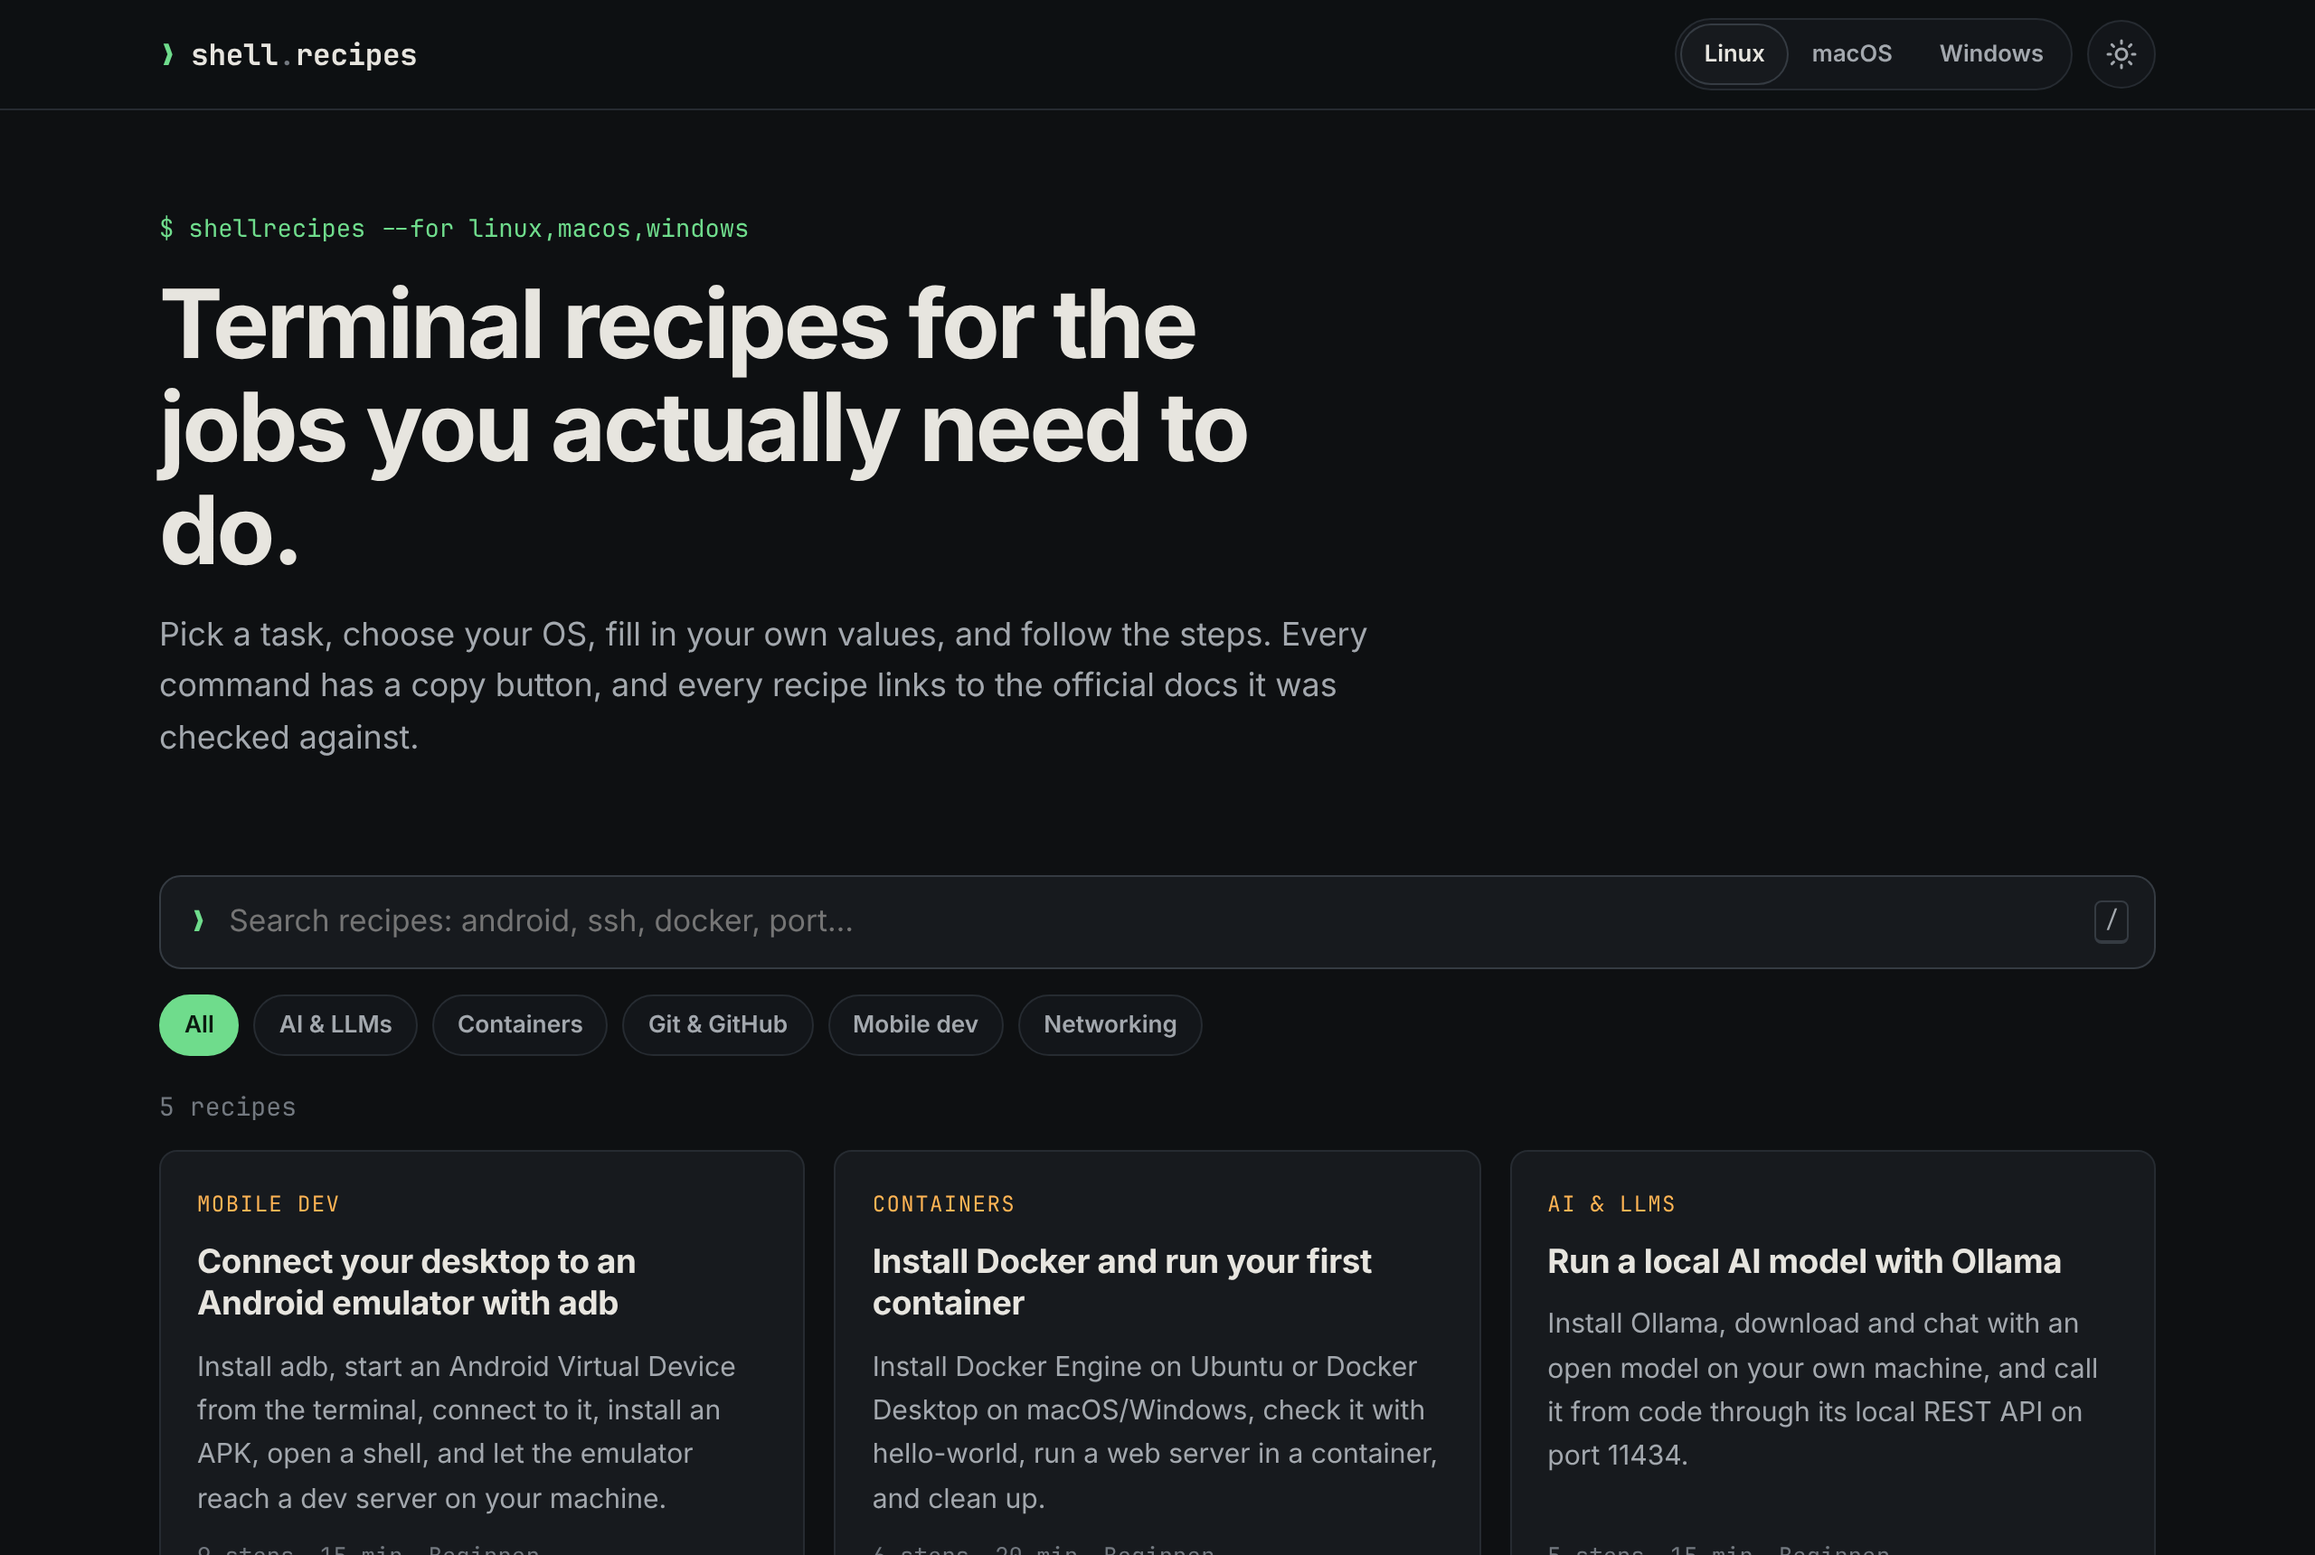
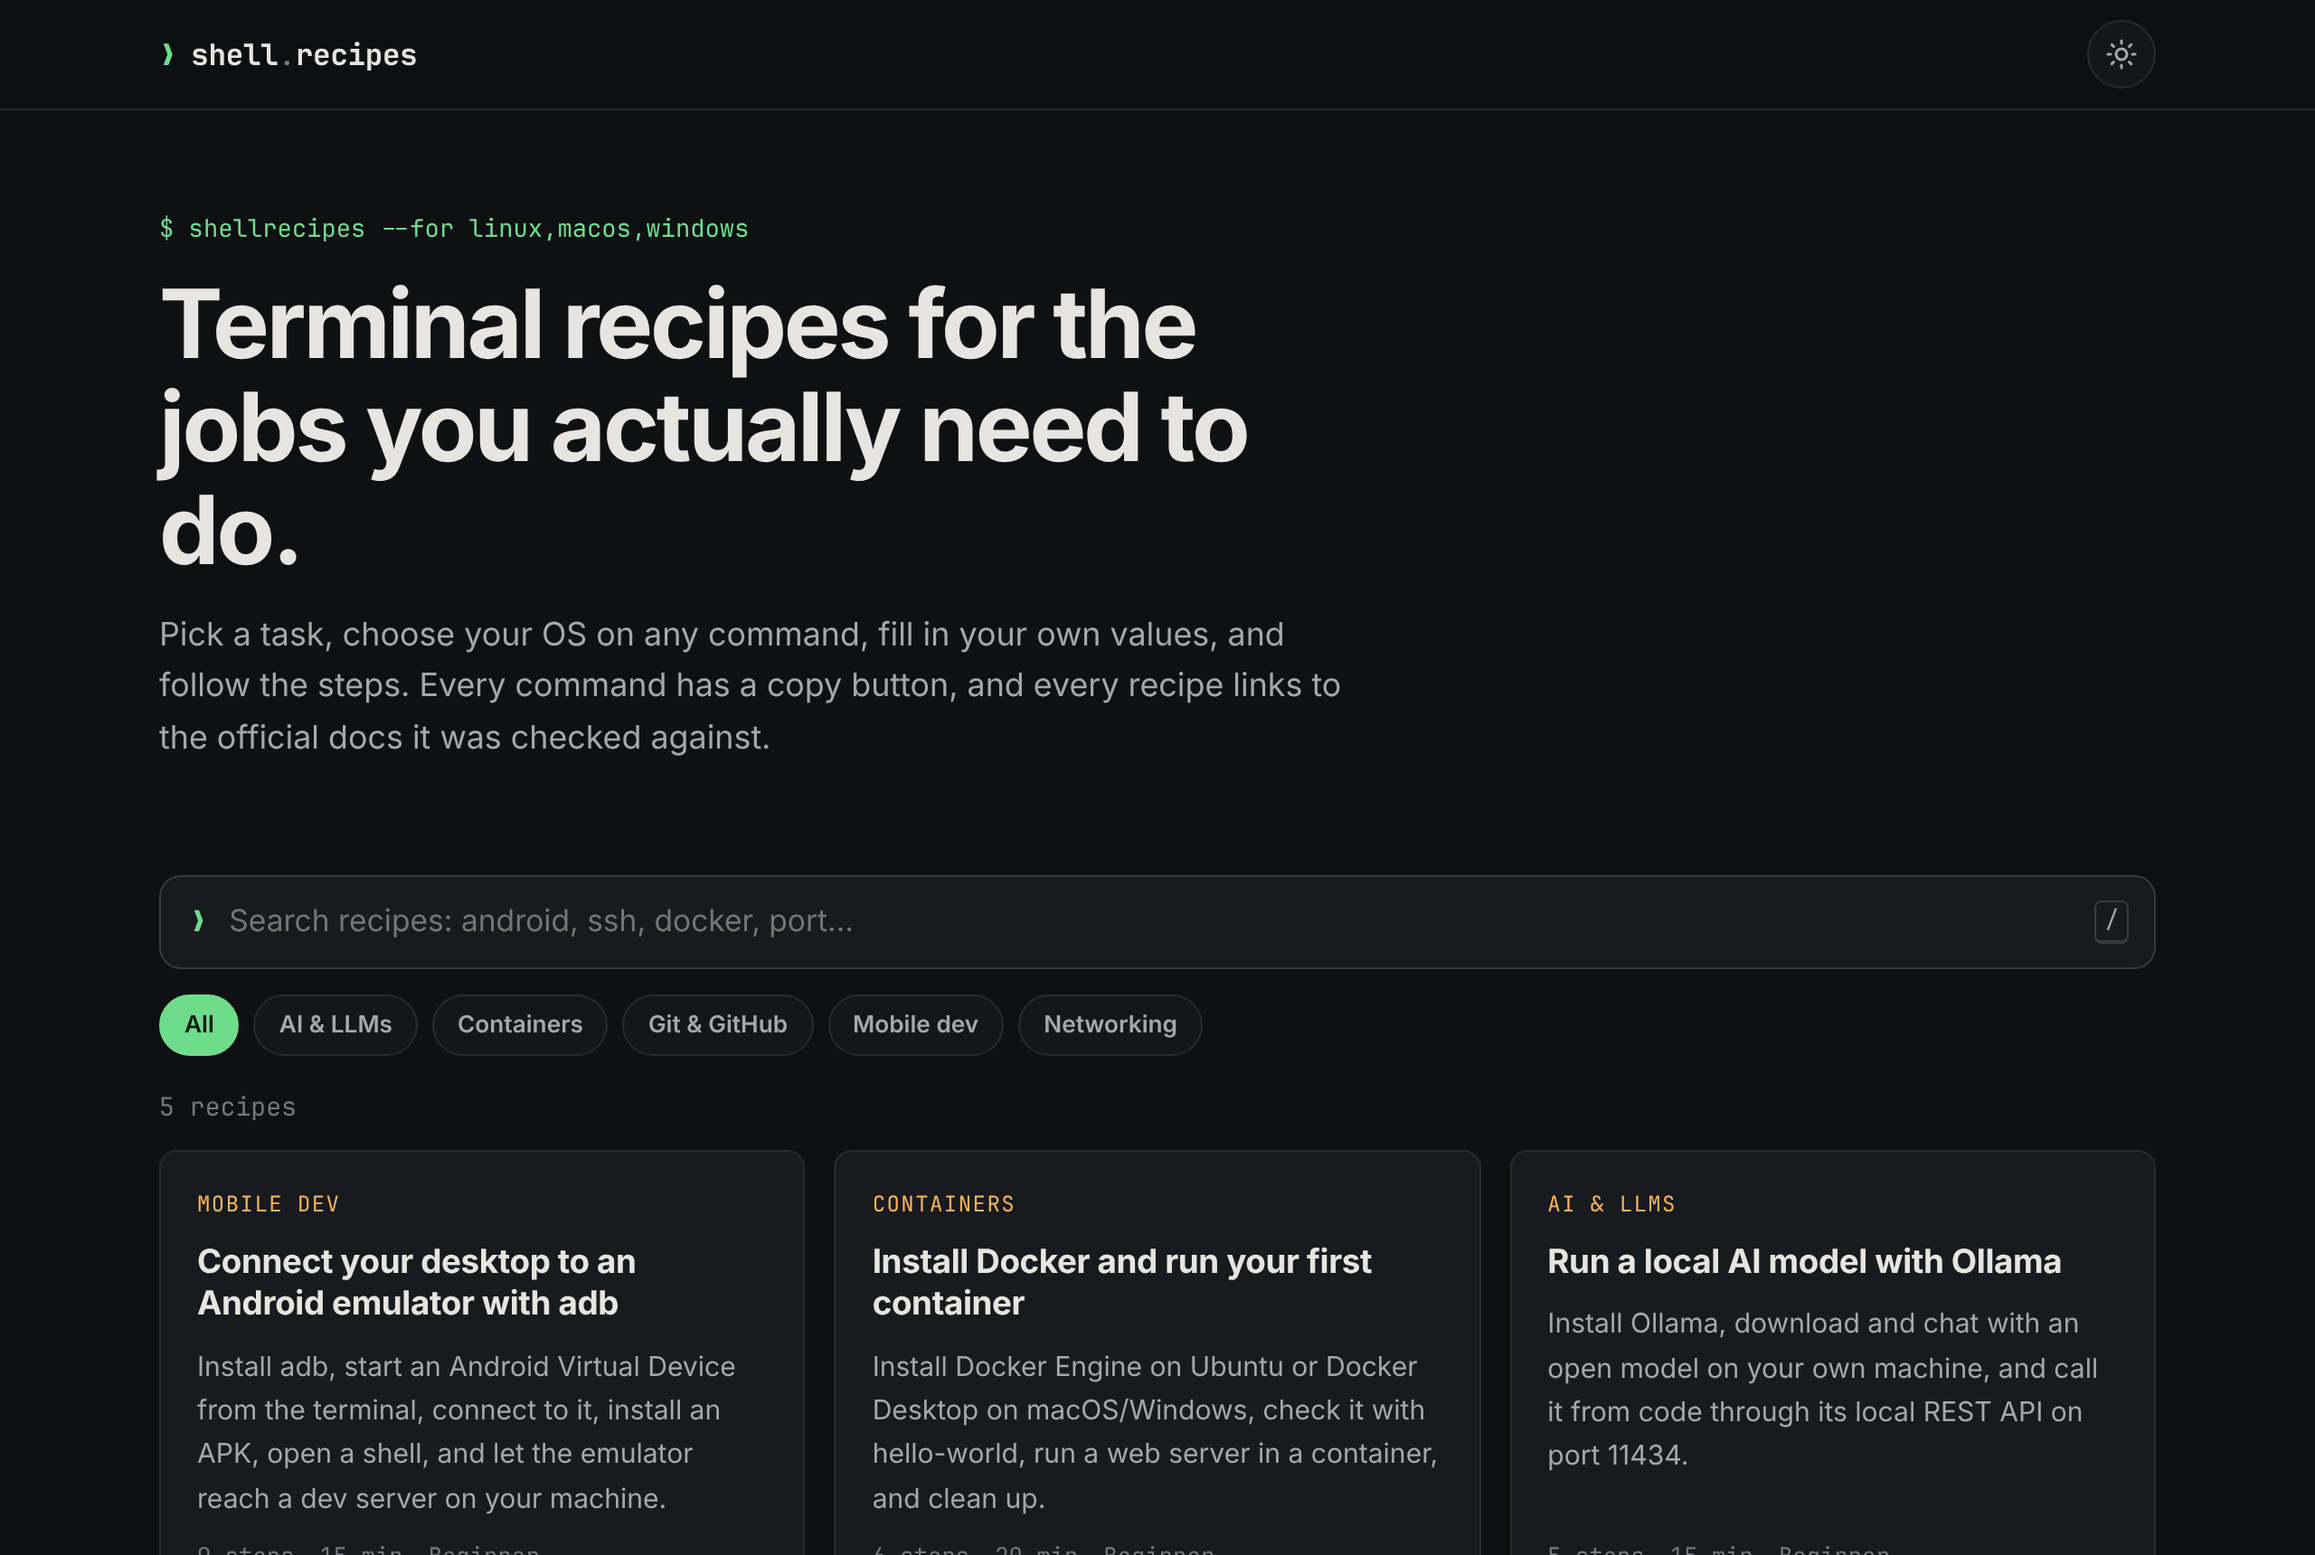
Choose the OS on each command block instead of the header
- Command groups with OS-specific variants now show Linux / macOS /
  Windows tabs in the block header; picking a tab switches every block
  on the page and is remembered (same localStorage key as before)
- The clicked block stays in place while blocks above change height,
  and focus moves to the matching tab in the newly shown block
- The "Nothing to run on <OS>" note carries its own tabs so you can
  switch back
- Remove the header OS switch and the recipe-page OS banner
- Fill {{VAR}} placeholders in plain text too (the Docker recipe showed
  a raw {{HOST_PORT}} in prose); localhost URL is now inline code
- Update home/README/CONTRIBUTING copy and README screenshots

Claude-Session: https://claude.ai/code/session_01CN2tqHWzyGVGj4ZnS8GSJ3

Changed region(s): [[0.0625, 0.4006, 0.5938, 0.493], [0.7188, 0.0308, 0.8125, 0.0616], [0.8438, 0.0308, 0.875, 0.0616]]

diff --git a/src/styles/global.css b/src/styles/global.css
@@ -139,16 +139,6 @@ kbd {
 .header-spacer { flex: 1; }
 .header-actions { display: flex; align-items: center; gap: 8px; }
 
-.os-switch {
-  display: inline-flex; padding: 3px; gap: 2px;
-  background: var(--bg-soft); border: 1px solid var(--border); border-radius: 999px;
-}
-.os-switch button {
-  font: 600 0.8rem var(--sans); color: var(--muted);
-  border: 0; background: transparent; border-radius: 999px;
-  padding: 6px 12px; cursor: pointer; min-height: 32px;
-}
-.os-switch button[aria-pressed='true'] { background: var(--surface); color: var(--text); box-shadow: 0 0 0 1px var(--border-strong); }
 .icon-btn {
   display: inline-grid; place-items: center; width: 38px; height: 38px;
   border: 1px solid var(--border); border-radius: 999px; background: var(--bg-soft);
@@ -162,13 +152,6 @@ kbd {
   :root:not([data-theme='light']) .icon-btn .sun { display: block; }
   :root:not([data-theme='light']) .icon-btn .moon { display: none; }
 }
-@media (max-width: 520px) {
-  .site-header .wrap { gap: 8px; }
-  .header-spacer { display: none; }
-  .header-actions { width: 100%; justify-content: space-between; }
-  .os-switch button { padding: 6px 10px; }
-}
-
 /* ---------- Footer ---------- */
 .site-footer { border-top: 1px solid var(--border); margin-top: 72px; padding: 28px 0 40px; color: var(--muted); font-size: 0.9rem; }
 .site-footer .wrap { display: flex; flex-wrap: wrap; gap: 8px 24px; justify-content: space-between; }
@@ -346,6 +329,7 @@ kbd {
   background: transparent; border: 1px solid var(--code-border); border-radius: 6px;
   padding: 5px 11px; cursor: pointer; min-height: 30px;
 }
+.copy { margin-left: auto; }
 .copy:hover { border-color: #6fdc8c; color: #6fdc8c; }
 .copy.copied { background: #6fdc8c; border-color: #6fdc8c; color: #0b1a10; }
 .cmd pre { margin: 0; padding: 14px 16px; overflow-x: auto; font-size: 0.87rem; line-height: 1.6; color: var(--code-text); tab-size: 2; }
@@ -355,7 +339,8 @@ kbd {
   color: var(--var-text); background: var(--var-bg); border-radius: 4px; padding: 0 2px;
   box-shadow: inset 0 -1px 0 rgba(255, 207, 112, 0.5);
 }
-.cmd-inline .var { color: var(--amber); background: var(--amber-soft); border-radius: 3px; padding: 0 2px; }
+.var-text .var { font-weight: 600; }
+.cmd-inline .var, .var-text .var { color: var(--amber); background: var(--amber-soft); border-radius: 3px; padding: 0 2px; }
 .cmd-output { background: var(--output-bg); border-color: var(--border); }
 .cmd-output .cmd-head { background: transparent; border-bottom: 1px dashed var(--border); color: var(--faint); }
 .cmd-output .cmd-os { color: var(--muted); }
@@ -366,21 +351,31 @@ kbd {
 :root[data-os='linux'] .cmd:not([data-os~='linux']),
 :root[data-os='macos'] .cmd:not([data-os~='macos']),
 :root[data-os='windows'] .cmd:not([data-os~='windows']) { display: none; }
-.cmd-none { display: none; margin: 0; padding: 10px 14px; border: 1px dashed var(--border-strong); border-radius: 9px; color: var(--muted); font-size: 0.9rem; }
+.cmd-none { display: none; border-radius: 9px; overflow: hidden; border: 1px dashed var(--code-border); background: var(--code-bg); }
+.cmd-none p { margin: 0; padding: 12px 16px; color: var(--code-dim); font-size: 0.9rem; }
+.cmd-none strong { color: var(--code-text); }
 .cmd-none-os::after { content: var(--os-name); }
 :root[data-os='linux'] .cmd-group:not(:has(.cmd[data-os~='linux'])) .cmd-none,
 :root[data-os='macos'] .cmd-group:not(:has(.cmd[data-os~='macos'])) .cmd-none,
 :root[data-os='windows'] .cmd-group:not(:has(.cmd[data-os~='windows'])) .cmd-none { display: block; }
 
-.os-banner {
-  display: flex; flex-wrap: wrap; align-items: center; gap: 6px 10px;
-  padding: 10px 14px; border-radius: 9px; background: var(--accent-soft); color: var(--text); font-size: 0.9rem; margin: 0 0 8px;
+/* Per-block OS tabs */
+.os-tabs { display: inline-flex; gap: 2px; padding: 2px; border-radius: 7px; background: rgba(255, 255, 255, 0.04); border: 1px solid var(--code-border); }
+.os-tab {
+  font: 600 0.74rem var(--sans); color: var(--code-dim);
+  background: transparent; border: 0; border-radius: 5px;
+  padding: 5px 10px; min-height: 28px; cursor: pointer;
 }
-.os-banner strong { font-family: var(--mono); }
-.os-banner .shell::after { content: 'bash'; font-family: var(--mono); }
-:root[data-os='macos'] .os-banner .shell::after { content: 'Terminal (zsh)'; }
-:root[data-os='windows'] .os-banner .shell::after { content: 'Windows Terminal (PowerShell)'; }
-.os-banner .unsupported { display: none; color: var(--amber); font-weight: 600; }
+.os-tab:hover { color: var(--code-text); }
+.os-tab:focus-visible { outline: 2px solid #6fdc8c; outline-offset: 0; }
+:root[data-os='linux'] .os-tab[data-os='linux'],
+:root[data-os='macos'] .os-tab[data-os='macos'],
+:root[data-os='windows'] .os-tab[data-os='windows'] { background: #2a3037; color: #ffffff; box-shadow: inset 0 0 0 1px #3a424b; }
+.has-tabs .cmd-head { flex-wrap: wrap; row-gap: 4px; }
+@media (max-width: 420px) {
+  .os-tab { padding: 5px 8px; }
+  .has-tabs .cmd[data-kind='cmd'] .cmd-kind { display: none; }
+}
 
 .sources { margin-top: 48px; padding-top: 20px; border-top: 1px solid var(--border); }
 .sources h2 { font-size: 1.1rem; margin: 0 0 6px; }

diff --git a/CONTRIBUTING.md b/CONTRIBUTING.md
@@ -67,10 +67,10 @@ sudo dnf install android-tools
 ```
 ````
 
-- Consecutive blocks are grouped. The visitor sees only the blocks for their selected OS.
+- Consecutive blocks are grouped. When a group has OS-specific blocks, its command header shows **Linux / macOS / Windows** tabs. Picking a tab switches every block on the page, so the visitor sees only their OS. Blocks with no OS listed show no tabs.
 - If a group has nothing for the selected OS, the page says *"Nothing to run on Windows for this part."*
 - `output` blocks are shown as **Expected output** and have no copy button. They can be OS-specific too (`output windows`).
-- `{{VAR}}` works in code blocks and in inline `` `code` ``.
+- `{{VAR}}` works in code blocks, inline `` `code` `` and plain text (not inside link URLs).
 
 ## Quality bar
 

diff --git a/README.md b/README.md
@@ -8,7 +8,7 @@ Pick a use case, such as *"connect my desktop to an Android emulator"*, choose y
 
 ## Features
 
-- **OS switch.** One click changes every command on the page between Linux, macOS and Windows. It auto-detects your OS on the first visit.
+- **OS tabs on every command.** Pick Linux, macOS or Windows on any command block and the whole page follows. Your OS is detected on the first visit and remembered.
 - **Fill-in variables.** Type your port, IP, device serial or email once, and every command updates.
 - **Copy buttons.** Copy each command with your values already filled in.
 - **Step checklist.** Tick off steps as you go. Progress is saved in your browser and shown on the home page.

diff --git a/src/recipes/install-docker.md b/src/recipes/install-docker.md
@@ -140,7 +140,7 @@ CONTAINER ID   IMAGE   COMMAND                  STATUS         PORTS            
 3f2a1b9c8d7e   nginx   "/docker-entrypoint.…"   Up 3 seconds   0.0.0.0:{{HOST_PORT}}->80/tcp   {{NAME}}
 ```
 
-Open **http://localhost:{{HOST_PORT}}** in your browser, or check from the terminal:
+Open `http://localhost:{{HOST_PORT}}` in your browser, or check from the terminal:
 
 ```bash linux,macos
 curl -I http://localhost:{{HOST_PORT}}
